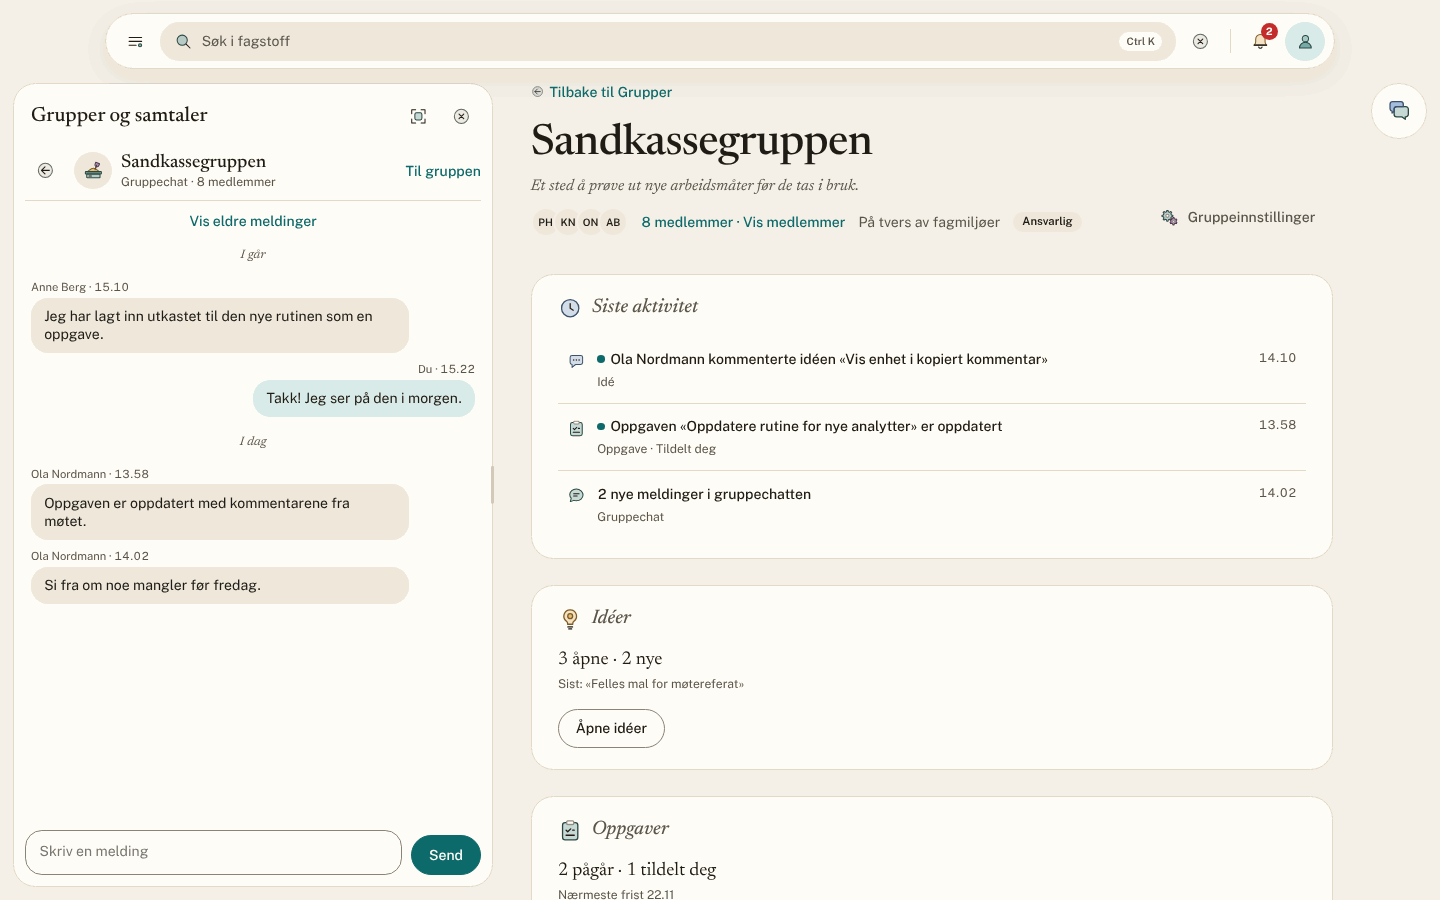
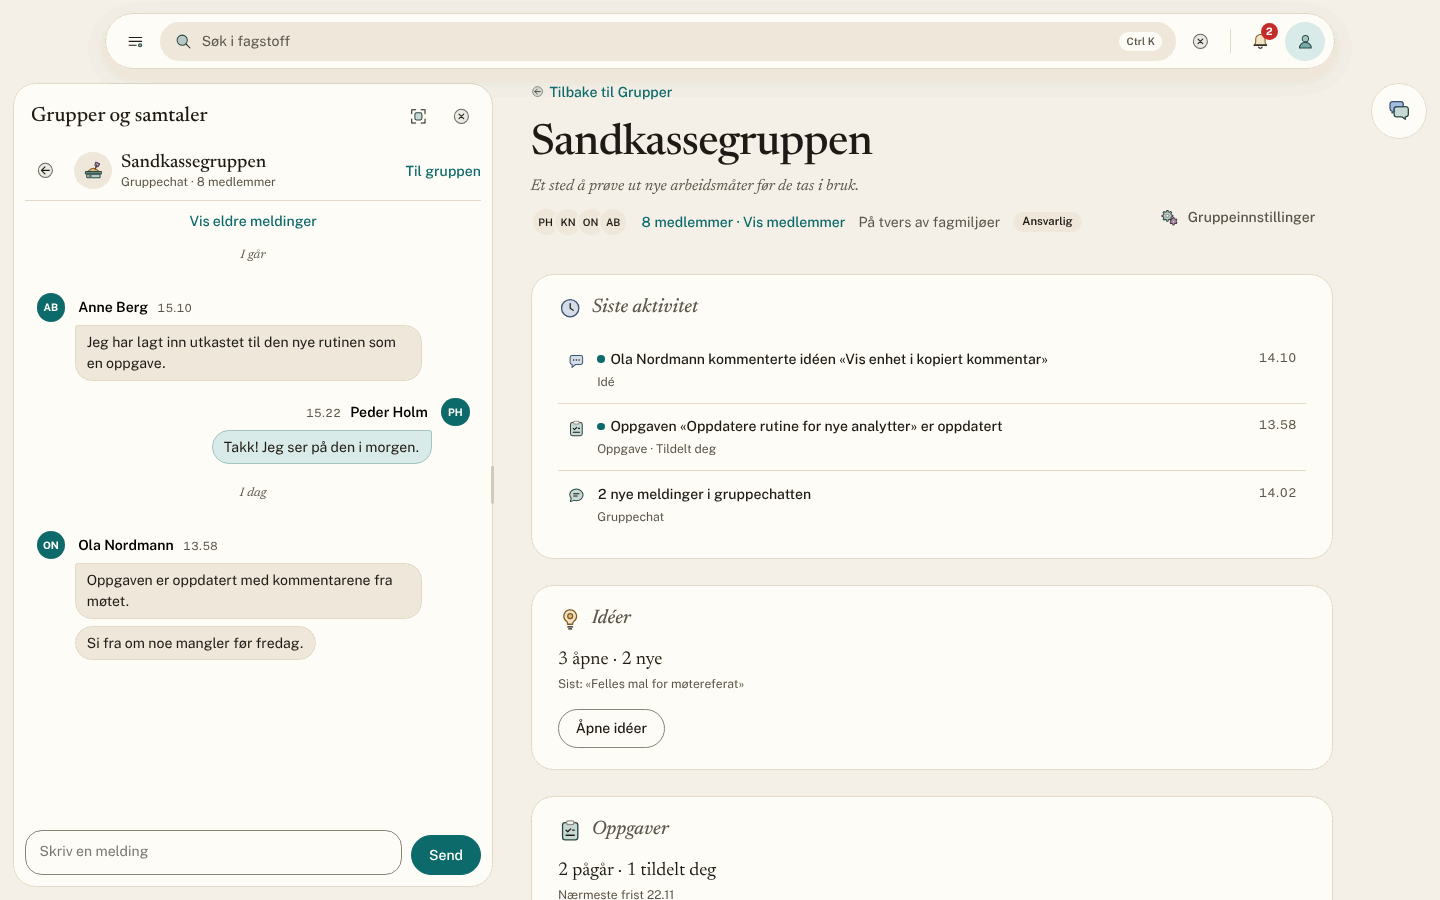
D0: chatten viser meldingene som i dagens gruppechat
Snakkebobler med profilbilde, navn og klokkeslett, spissen mot bildet og egne
meldinger til høyre, slik de ble innført i #455. Prototypen bruker appens egen
src/styles/gruppechat.css, så skissen følger koden. Skissene 15, 16, 18, 22
og 26 er tatt på nytt.

Claude-Session: https://claude.ai/code/session_01LdorMT6WHnamzTbYVghtkt

Changed region(s): [[0.0, 0.3111, 0.3438, 0.7467]]

diff --git a/docs/design/d0-dashboard-chat/prototype/prototype.js b/docs/design/d0-dashboard-chat/prototype/prototype.js
@@ -907,6 +907,41 @@ function chatoversikt({ helside = false } = {}) {
     ).join('')}</div>`
 }
 
+/*
+ * Meldingene tegnes med appens egen markering og stil (Gruppechatmelding og
+ * src/styles/gruppechat.css): profilbilde, navn og klokkeslett over boblen, egne
+ * meldinger til høyre, og spissen mot bildet bare på den første i en rekke fra
+ * samme avsender.
+ */
+function meldingsliste(meldinger) {
+  const dager = []
+  for (const m of meldinger) {
+    if (m.dato) dager.push({ dato: m.dato, meldinger: [] })
+    else dager[dager.length - 1].meldinger.push(m)
+  }
+  return dager
+    .map(
+      ({ dato, meldinger: dagens }) => `<div class="dato">${dato}</div>
+      <ol class="traad__liste">${dagens
+        .map((m, i) => {
+          const sammen = i > 0 && dagens[i - 1].fra === m.fra
+          return `<li class="chatmelding"${m.egen ? ' data-egen' : ''}${sammen ? ' data-sammen' : ''}>
+            ${sammen ? '' : `<span class="chatmelding__bilde"><span class="avatar avatar--liten" aria-hidden="true">${initialer(m.fra)}</span></span>`}
+            <div class="chatmelding__innhold">
+              ${
+                sammen
+                  ? `<span class="skjult">${m.fra}, ${m.tid}</span>`
+                  : `<p class="chatmelding__hode"><span class="chatmelding__navn">${m.fra}${m.egen ? '<span class="skjult"> (deg)</span>' : ''}</span><time class="chatmelding__tid">${m.tid}</time></p>`
+              }
+              <div class="chatmelding__rad"><p class="chatmelding__boble chatmelding__tekst">${m.tekst}</p></div>
+            </div>
+          </li>`
+        })
+        .join('')}</ol>`,
+    )
+    .join('')
+}
+
 function samtalevisning(s, { helside = false } = {}) {
   const g = s.type === 'gruppe' ? gruppe(s.id) : null
   const meldinger = MELDINGER[s.id] || []
@@ -920,13 +955,7 @@ function samtalevisning(s, { helside = false } = {}) {
     </div>
     <div class="traad" role="log" aria-label="Meldinger">
       <button type="button" class="lenke" style="align-self:center">Vis eldre meldinger</button>
-      ${meldinger
-        .map((m) =>
-          m.dato
-            ? `<div class="dato">${m.dato}</div>`
-            : `<div class="melding"${m.egen ? ' data-egen' : ''}><small>${m.egen ? 'Du' : m.fra} · ${m.tid}</small><p>${m.tekst}</p></div>`,
-        )
-        .join('')}
+      ${meldingsliste(meldinger)}
     </div>
     ${
       s.sperret
@@ -950,7 +979,7 @@ function nyChat() {
         }</span></button>`
       })
       .join('')}
-    <p class="tom">Kari Nordmann vises ikke, fordi hun ikke tillater direktemeldinger.</p>`
+    <p class="tom">Kari Nordmann vises ikke, fordi direktemeldinger er slått av for denne brukeren.</p>`
 }
 
 function chatmeny() {

diff --git a/docs/design/d0-dashboard-chat/prototype/prototype.css b/docs/design/d0-dashboard-chat/prototype/prototype.css
@@ -1321,32 +1321,21 @@ a.liste__rad:hover {
   font: italic var(--vekt-normal) var(--tekst-liten) / 1 var(--skrift-display);
 }
 
-.melding {
-  display: flex;
-  flex-direction: column;
-  gap: 0.2rem;
-  max-width: 85%;
-}
-
-.melding small {
-  color: var(--blekk-dempet);
-  font-size: var(--tekst-meta);
-}
-
-.melding p {
+.traad__liste {
   margin: 0;
-  padding: var(--rom-3) var(--rom-5);
-  border-radius: var(--runding-knapp);
-  background: var(--flate-hevet);
+  padding: 0;
+  list-style: none;
 }
 
-.melding[data-egen] {
-  align-self: flex-end;
-  align-items: flex-end;
-}
-
-.melding[data-egen] p {
-  background: var(--aksent-flate);
+/* Profilbildet i chatten er appens (src/styles/konto.css, .avatar--liten). */
+.chatmelding .avatar {
+  width: 1.9rem;
+  height: 1.9rem;
+  margin: 0;
+  border: 0;
+  background: var(--aksent);
+  color: var(--paa-aksent);
+  font-weight: var(--vekt-fet);
 }
 
 .skrivefelt {

diff --git a/docs/design/d0-dashboard-chat/prototype/index.html b/docs/design/d0-dashboard-chat/prototype/index.html
@@ -7,6 +7,8 @@
     <!-- Skissen bruker appens egne tokens og ikonstiler, så den følger Atlas slik det står i koden. -->
     <link rel="stylesheet" href="../../../../src/styles/tokens.css" />
     <link rel="stylesheet" href="../../../../src/styles/ikon.css" />
+    <!-- Meldingene i chatten er appens egne (snakkebobler fra PR #455). -->
+    <link rel="stylesheet" href="../../../../src/styles/gruppechat.css" />
     <link rel="preconnect" href="https://fonts.googleapis.com" />
     <link rel="preconnect" href="https://fonts.gstatic.com" crossorigin />
     <link

diff --git a/docs/design/d0-dashboard-chat/README.md b/docs/design/d0-dashboard-chat/README.md
@@ -64,7 +64,10 @@ trekkspillet `Mine grupper` (lenker til gruppesidene), så `Samtaler`: én liste
 sortert etter siste aktivitet, med søk og `Ny chat`. Nederst bryterne
 `Tillat direktemeldinger` og `Vis når jeg er aktiv`. `Utvid` gir `#/chat` med
 liste og samtale side om side (16), og `Gjenopprett` går tilbake til siden
-brukeren var på med menyen åpen. På mobil fyller chatten skjermen. En mottaker
+brukeren var på med menyen åpen. Meldingene ser ut som i dagens gruppechat
+(PR #455): profilbilde, navn og klokkeslett, og en snakkeboble som kommer ut
+fra bildet, med egne meldinger til høyre. Prototypen bruker appens egen stil for
+dette. På mobil fyller chatten skjermen. En mottaker
 som har slått av direktemeldinger, gir en låst linje i stedet for skrivefeltet,
 og historikken står (18, 26).
 

diff --git a/docs/design/d0-dashboard-chat/kart.md b/docs/design/d0-dashboard-chat/kart.md
@@ -37,7 +37,8 @@ Kartet bygger på en gjennomgang av koden på `main` 18.11.2026. Se
   kompakt til dokk.
 - Diskusjonsmenyens innhold, helside, bredde, fokus og direkte lenker (åpen PR
   #459 om boblen er uavhengig av dette).
-- Gruppechattens funksjoner: grupperte meldinger, datooverskrifter,
+- Gruppechattens funksjoner og utseende: snakkebobler med profilbilde og navn,
+  egne meldinger til høyre (PR #455), grupperte meldinger, datooverskrifter,
   Enter/Shift+Enter, eldre meldinger, rulleposisjon, utkast, redigering, sletting,
   moderering, lesere og 12 måneders lagringstid.
 - Tilgangene: grupper, fagmiljøer, roller, systemarkitektens «Ikke medlem».
